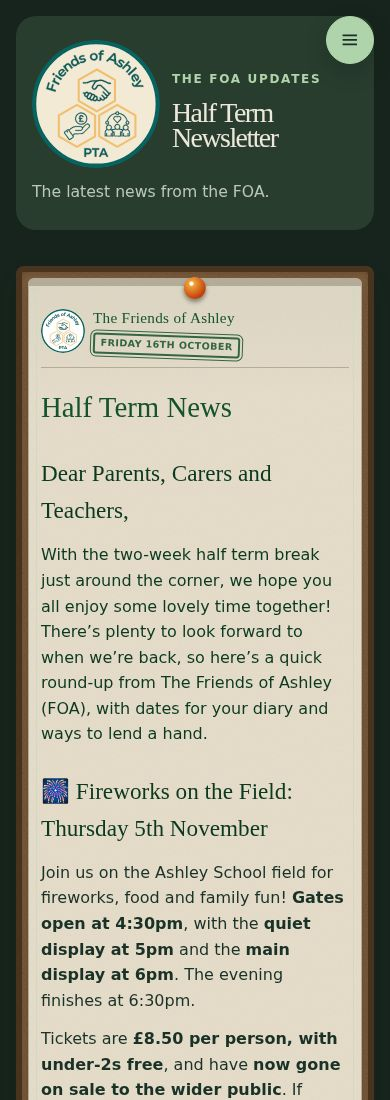
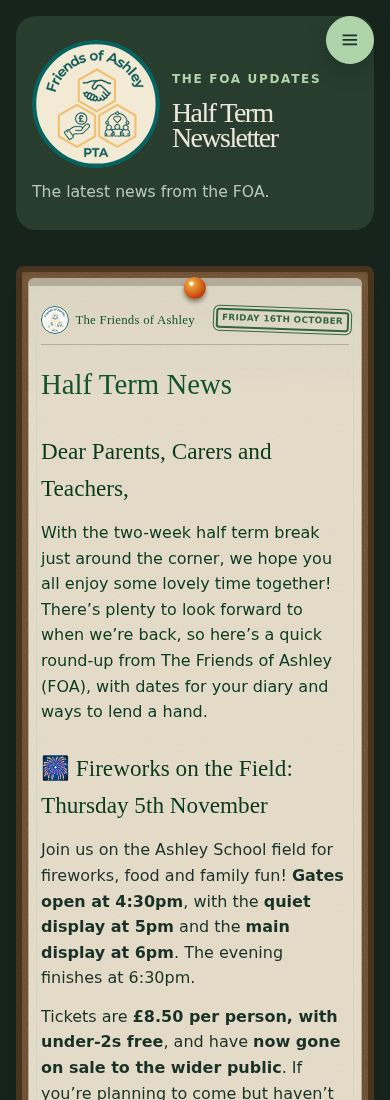
[CF-Pages-Skip] Put phone newsletter name and date on one row when they fit

Changed region(s): [[0.0923, 0.2782, 0.9231, 1.0]]

diff --git a/tests/e2e/newsletter-width.spec.ts b/tests/e2e/newsletter-width.spec.ts
@@ -17,7 +17,7 @@ for(const width of [360,390,430])for(const theme of ['day','night'])for(const en
  const header=page.locator('.newsletter-reading-board .newsletter-letterhead');
  const date=header.locator('time');
  expect(parseFloat(await date.evaluate(el=>getComputedStyle(el).fontSize))).toBeLessThan(enlarged?20:10);
- if(!enlarged){const h=(await header.boundingBox())!;expect(h.height).toBeLessThan(70);expect((await date.boundingBox())!.y).toBeLessThan(h.y+50)}
+ if(!enlarged){const h=(await header.boundingBox())!;expect(h.height).toBeLessThan(70);expect((await date.boundingBox())!.y).toBeLessThan(h.y+50);if(width>=390)expect((await date.boundingBox())!.y).toBeLessThan(h.y+20)}
  expect(await page.evaluate(()=>document.documentElement.scrollWidth<=innerWidth)).toBe(true);
  await page.locator('.newsletter-reading-board .newsletter-read-more').click();await expect(page.locator('.newsletter-reading-board .newsletter-more')).toBeVisible();
 });

diff --git a/src/styles/global.css b/src/styles/global.css
@@ -2362,26 +2362,25 @@ svg.cta-icon {
   }
 
   .newsletter-letterhead {
-    display: grid;
-    grid-template-columns: 2.75rem minmax(0, 1fr);
-    gap: 0.3rem 0.5rem;
+    display: flex;
+    flex-wrap: wrap;
+    gap: 0.3rem 0.4rem;
     margin-bottom: 1rem;
     padding-bottom: 0.65rem;
-    font-size: 0.95rem;
+    font-size: 0.8rem;
   }
 
-  .newsletter-letterhead > img {
-    grid-row: 1 / 3;
+  .newsletter-page .newsletter-letterhead > img {
+    width: 1.75rem;
+    height: 1.75rem;
     max-width: 100%;
   }
 
   .newsletter-letterhead-date {
-    grid-column: 2;
-    justify-self: start;
     max-width: 100%;
-    margin-left: 0;
-    padding: 0.15rem 0.35rem;
-    font-size: 0.6rem;
+    margin-left: auto;
+    padding: 0.15rem 0.25rem;
+    font-size: 0.55rem;
     letter-spacing: 0.04em;
   }
 }

diff --git a/docs/PROJECT-BRIEF.md b/docs/PROJECT-BRIEF.md
@@ -400,4 +400,4 @@ The homepage Donations Day notice sits inside the Christmas Fayre splash below i
 
 The December jumper treatment runs through the sale day and expires at midnight after Friday 4 December (Europe/London). Uniform returns to its ordinary buy/donate content, without an invented next sale date. The same boundary applies to Reps and the active What's On listing; the latter retains a past-event record. On the first build after expiry, Uniform's social image and description return to the standard logo and evergreen copy. The existing daily 08:00 build supplies that server-rendered metadata update; chat apps may retain cached previews.
 
-The desktop newsletter reader uses an 84rem maximum frame, an 18rem issue index and a slimmer cork surround. Give the reading sheet the recovered width rather than widening only the decoration. On phones, use a 0.375rem cork border and surround with 0.75rem paper side padding, recovering reading width while retaining the noticeboard. The phone letterhead groups a smaller date stamp beneath the name beside the logo, with tighter top and header spacing so the issue starts higher. Keep the stacked layouts, content and reading controls. This layout change is separate from newsletter issue publication.
+The desktop newsletter reader uses an 84rem maximum frame, an 18rem issue index and a slimmer cork surround. Give the reading sheet the recovered width rather than widening only the decoration. On phones, use a 0.375rem cork border and surround with 0.75rem paper side padding, recovering reading width while retaining the noticeboard. The phone letterhead places the logo, name and smaller date stamp on one line when they fit, wrapping naturally on narrower or enlarged-text views, with tighter top and header spacing so the issue starts higher. Keep the stacked layouts, content and reading controls. This layout change is separate from newsletter issue publication.
